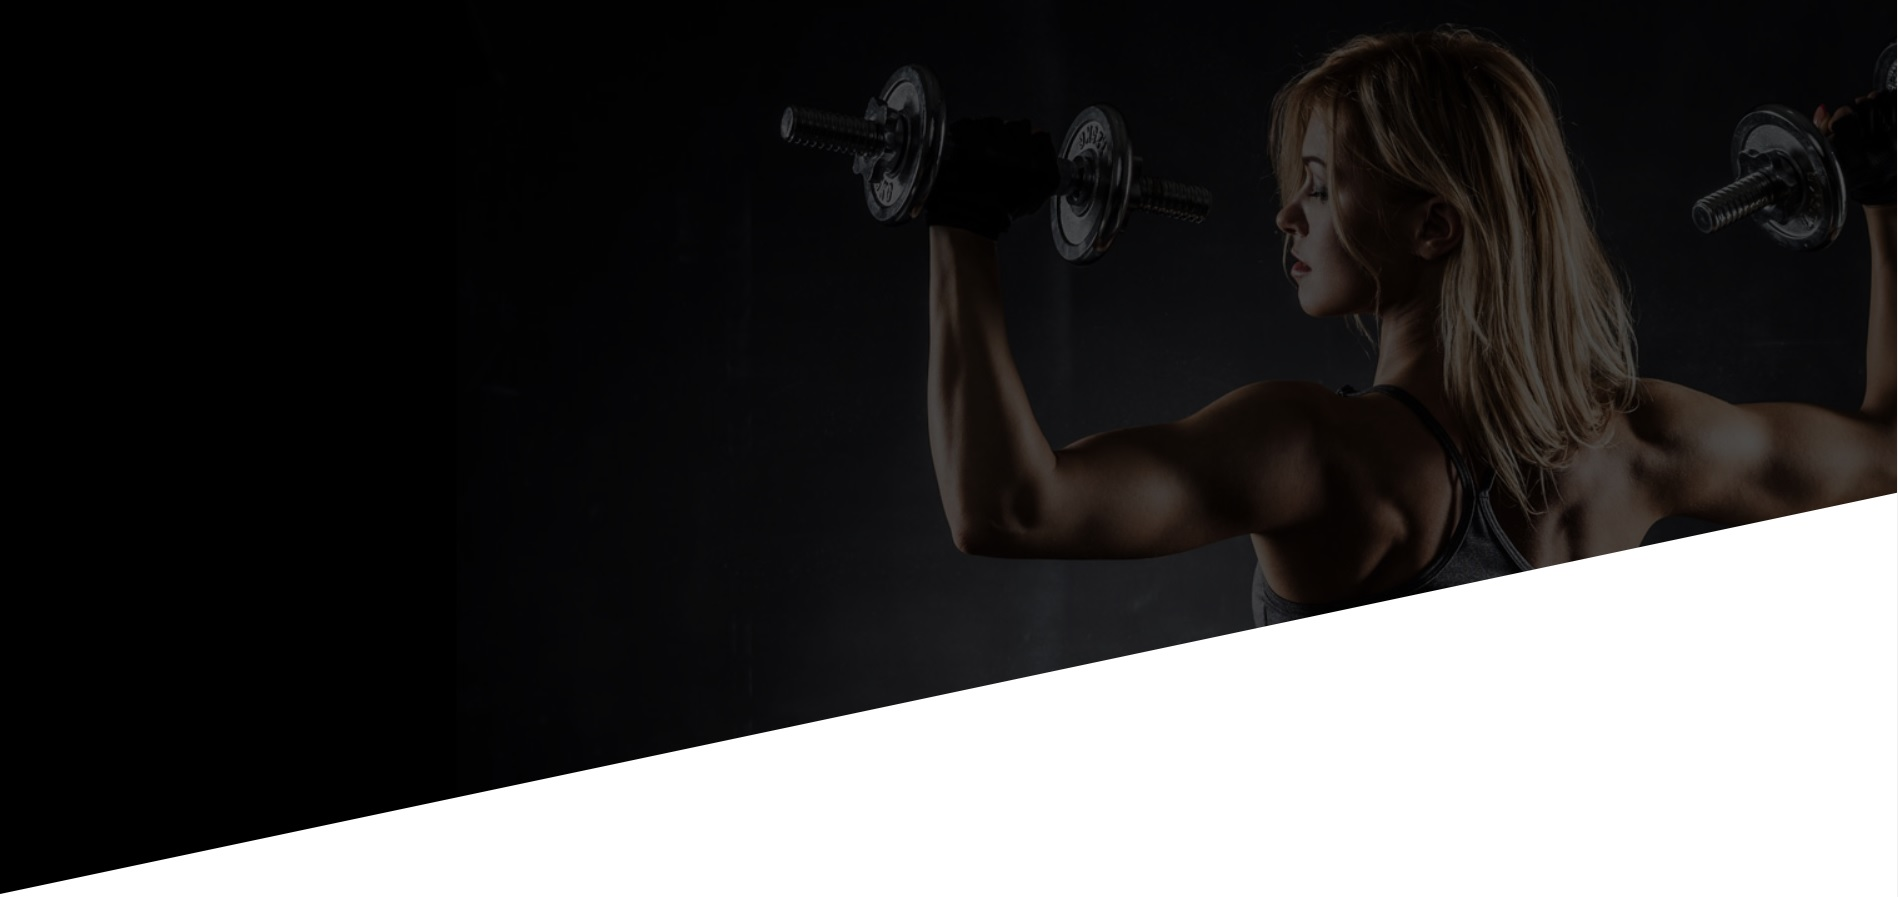
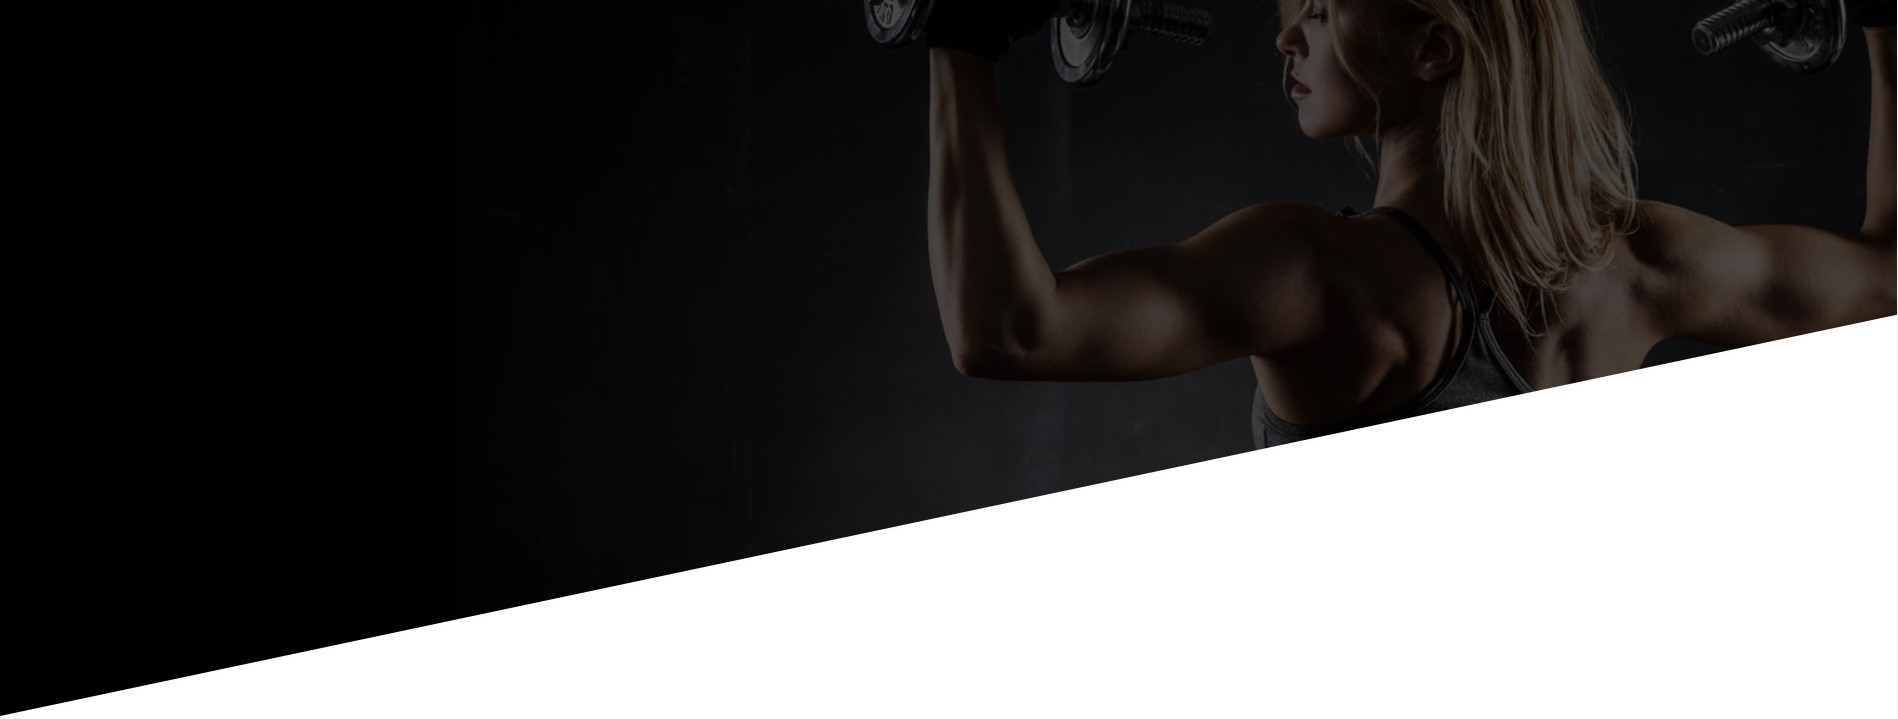
About text section

diff --git a/about.html b/about.html
@@ -104,7 +104,7 @@
                 <div class="col-sm-12 cropped">
                     <div class="heading">
                         O nama
-                        <br/>
+                        <br/><br/>
                         <div class="heading-sm">
                             Joga, Pilates, Tegovi, Kardio...
                         </div>
@@ -114,7 +114,7 @@
         </div>
 
         <!--CounterUp-->
-        <div class="container counter">
+        <div class="container-fluid counter">
             <div class="row">
                 <div class="col-sm-4">
                     <i class="fas fa-users"></i>
@@ -147,20 +147,21 @@
         </script>
 
         <!-- About Us -->
-        <div class="container-fluid mt-5 about">
+        <div class="container-fluid about">
             <div class="row">
-                <div class="offset-sm-2 col-sm-5 text-section">
+                <div class="offset-sm-2 col-sm-4 text-section">
                     <div class="heading-sm">
                         DOBRODOŠLI U SPARTU
                     </div>
                     <div class="heading-lg">
-                        O NAMA
+                        SVE O <b>SPARTI</b>
                     </div>
                     <div class="text">
                         Sparta je jedinstvena teretana i fitness centar u Beogradu. 
                         Kao jedna od većih teretana, prostire se na 1500 kvadratnih metara. 
                         Radi se o vrhunski opremljenom prostoru u kojem možete raditi 
                         kompletnu kondicijsku pripremu bilo da se radi o rekreativcu ili sportašu bilo kojeg sporta. 
+                        <br/>
                         Neophodno je spomenuti da Sparta uvek ulaže u nove sprave za vežbanje 
                         pa njeni članovi imaju pristup tuševima i velikim svlačionicama s ormarićima.
                         <br/>
@@ -172,12 +173,43 @@
                         programa koji se mogu koristiti svi zajedno i kombinovati po želji korisnika.
                     </div>                    
                 </div>
-                <div class="col-sm-3">
-                    <img src="./images/fit-transparent.png" alt="">
+                <div class="offset-sm-1 col-sm-3">
+                    <img src="./images/gym1.jpg" alt="">
+                </div>
+            </div>
+        </div>
+        <div class="container-fluid about">
+            <div class="row">                
+                <div class="offset-sm-2 col-sm-3">
+                    <img src="./images/gym2.jpg" alt="">
+                </div>
+                <div class="offset-sm-1 col-sm-4 text-section">
+                    <div class="heading-sm">
+                        CILJEVI
+                    </div>
+                    <div class="heading-lg">
+                        NAŠA <b>MISIJA</b>
+                    </div>
+                    <div class="text">
+                        Sparta je osmišljena tako da svojim konceptom pruži uslove 
+                        za trening kako najzahtevnijim sportistima tako i rekreativcima i 
+                        deci. Stotine najrazličitijih sprava poslednje generacije nude 
+                        sportistima takve uslove za trening kakvi se ne mogu naći nigde u 
+                        regionu. 
+                        <br/>
+                        Sparta postoji iz ljubavi i predanosti prema
+                        sportu i ideja Sparte je popularizacija i stimulacija ljudi, omladine 
+                        i dece da se bave sportom. Naš cilj je da pomognemo svima kojima je 
+                        pomoć potrebna i kojima smo u mogućnosti da pomognemo.
+                    </div>                    
                 </div>
             </div>
         </div>
 
+        <!-- Meet the Team -->
+        <div class="container-fluid">
+            
+        </div>
 
     </div>
 </div>

diff --git a/css/about.css b/css/about.css
@@ -1,6 +1,7 @@
 body {
-    background-image: url(../images/bg2.jpg);
+    background-image: url(../images/bg.jpg);
     background-repeat: no-repeat; 
+    background-attachment: fixed;
 }
 
 /* About us */
@@ -8,7 +9,12 @@ body {
     background-color: white;
 }
 .about img {
-    margin: auto;
+    position: relative;
+    top: 50%;
+    transform: translateY(-50%);
+    height: 500px;
+    width: 400px;
+    box-shadow: .5em .5em 2em rgba(0, 0, 0, 0.3);
 }
 .text-section {
     margin-top: 5vw;
@@ -21,14 +27,13 @@ body {
     line-height: 2em;
 }
 .text-section .heading-lg {
-    font-size: 5vw;
-    line-height: 3vw;
-    margin-bottom: 2vw;
+    font-size: 40px;
+    margin-bottom: 10px;
 }
 .text-section .heading-sm {
-    font-size: 1.2vw;
+    font-size: 15px;
     color: rgb(60, 121, 190);
-    margin-bottom: .5em;
+    font-weight: 700;
 }
 @media screen and (max-width: 800px) { 
 	.text-section .heading-sm  {
@@ -42,15 +47,14 @@ body {
 /* CounterUp */
 .counter {
     padding: 40px 0;
-    background-color: rgba(59, 59, 59, 0.3);
-    border-radius: 15px;
+    background: rgba(0, 0, 0, 0.205);  
 }
 .counter .col-sm-4 {
 	flex: 1;
 	text-align: center;
-	padding: 2vw;
-    color: rgb(0, 92, 197);
-    text-shadow: 2px 2px 3px rgba(0, 0, 0, 0.5);
+	padding: 1vw;
+    color: rgb(60, 121, 190);
+    text-shadow: 2px 2px 3px rgba(56, 56, 56, 0.5);
 	text-transform: uppercase;
 	font-size: 1.5vw;
 }

diff --git a/css/home.css b/css/home.css
@@ -13,11 +13,11 @@
     padding: 3em;
 }
 .top-workouts .blue-box {
-    background-color: rgb(0, 92, 197);
+    background-color: rgb(60, 121, 190);    
     padding: 3em;
 }
 .top-workouts .lightblue-box {
-    background-color: rgb(60, 121, 190);
+    background-color: rgb(92, 138, 192);
     padding: 3em;
 }
 .top-workouts .heading {
